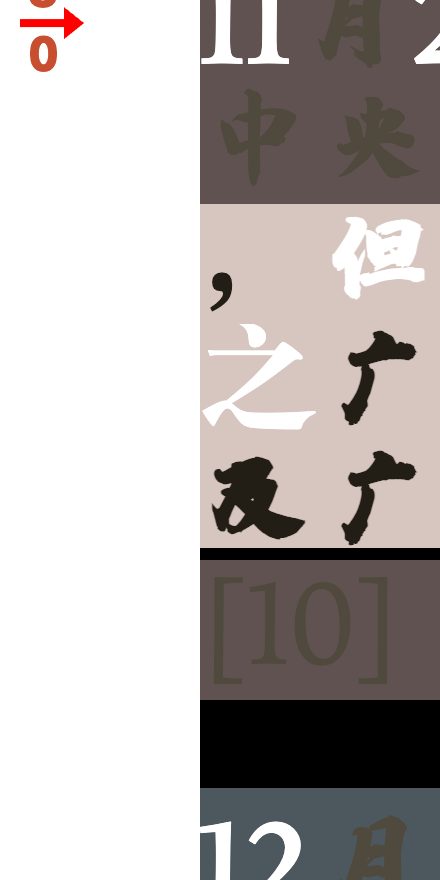
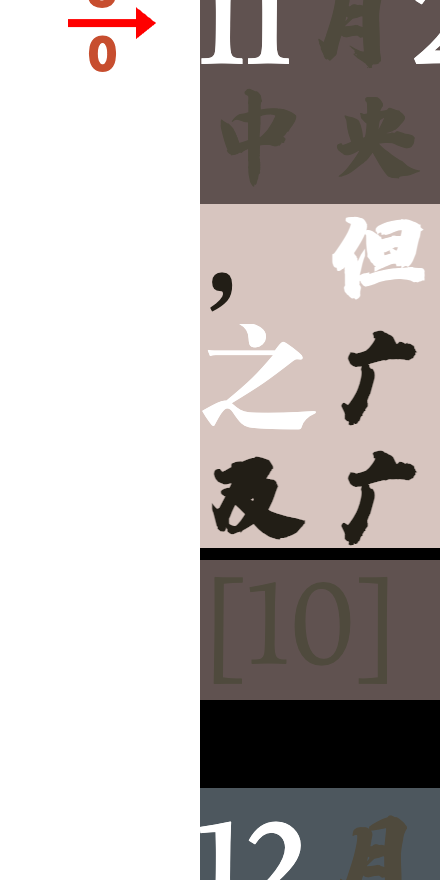
合理优化三列的宽度 现在第一列太窄 右边还有空白浪费 合理优化 三列平分这些空间
左缘白轴上的三列改为平分整条白轴：章节刻度 5px、进度数字 11px、关键词 12px 各占三分之一
（宽 = 正文行盒起点 28px + 行首留白，随字号自适应），第一列不再挤成 5px，
关键词列右缘从旧 28px 边界直推到首字左缘，白轴上不再有闲置空白；章节轨道白底直接引用 --白轴总宽。
红色指针三角改固定 5px（不再随列宽涨到 18px）；悬停临时关键词列让到白轴右缘之外 6px。
tmp/verify-行尾空隙.mjs 增加三列平分断言，新增 tmp/看-三列平分.mjs（有章节的书 + 关键词实跑：
0-16.5 / 16.5-33.1 / 33.1-49.6，与首字左缘 49.59 精确吻合），headless Chrome 实测通过、profile 已清理。

Changed region(s): [[0.0295, 0.0, 0.3545, 0.092]]

diff --git a/styles.css b/styles.css
@@ -101,17 +101,18 @@
      正文以最后一个字收尾、紧贴视口右缘，行首标记 ◀ 也一并有了容身处。 */
   --末处标记留白比例: 0.42;
   --行首标记留白: calc(var(--正文字号) * var(--末处标记留白比例));
-  /* 页面左缘一叠竖列：章节刻度贴屏幕左缘，再往右才是进度数字与选中关键词——
-     中间隔着数字列，免得灰色章节刻度与关键词刻度贴在一起分不清。
-     悬停时临时关键词列再往右让出一格。右侧没有轨道，正文直接铺到视口右缘。
-     白轴右缘不止三列之和：行首留白（折行竖条 + 末处标记格）也划给白轴，
-     正文首字紧贴白轴右缘，深色纸面上行首不再露出一条黑边。 */
-  --章节刻度宽度: 5px;
-  --百分比宽度: 11px;
-  --关键词宽度: 12px;
-  --章节轨道宽度: calc(
-    var(--章节刻度宽度) + var(--百分比宽度) + var(--关键词宽度)
+  /* 页面左缘白轴：章节刻度、进度数字、关键词刻度三列平分整条白轴。
+     白轴总宽 = 正文行盒起点（原三列 5+11+12 之和）+ 行首留白（折行竖条 + 末处标记格，
+     这段已划给白轴）。第一列不再挤成 5px，数字列与关键词列一直摊到首字左缘，
+     白轴上没有闲置空白；首字紧贴白轴右缘，深色纸面上行首不露黑边。
+     悬停时临时关键词列让到白轴右缘之外、压住正文左缘。右侧没有轨道，正文铺到视口右缘。 */
+  --章节轨道宽度: calc(5px + 11px + 12px);
+  --白轴总宽: calc(
+    var(--章节轨道宽度) + var(--正文左留白) + var(--行首标记留白)
   );
+  --章节刻度宽度: calc(var(--白轴总宽) / 3);
+  --百分比宽度: var(--章节刻度宽度);
+  --关键词宽度: var(--章节刻度宽度);
   /* 动画时长：JS（js/跳转动画.js）读取同一变量同步兜底计时器，改这里即两处同时生效 */
   --跳转迸发时长: 680ms;
   --衔接线播放时长: 1200ms;
@@ -196,9 +197,7 @@ body.关键词手势中 .滚动容器 {
   top: 0;
   left: 0;
   z-index: 6;
-  width: calc(
-    var(--章节轨道宽度) + var(--正文左留白) + var(--行首标记留白)
-  );
+  width: var(--白轴总宽);
   height: 100%;
   overflow: hidden;
   background: #fff;
@@ -226,11 +225,11 @@ body.关键词手势中 .滚动容器 {
 }
 
 /* canvas 是替换元素，必须显式给高，top/bottom 不会把它拉满。
-   轨道白底吞下了行首留白，right 内缩同一段作抵消，关键词刻度仍贴在进度数字列右侧 */
+   三列平分白轴后关键词列就是右起三分之一，right:0 贴到白轴右缘（即首字左缘） */
 .关键词指示器 {
   position: absolute;
   top: 0;
-  right: calc(var(--正文左留白) + var(--行首标记留白));
+  right: 0;
   display: block;
   width: var(--关键词宽度);
   height: 100%;
@@ -241,10 +240,11 @@ body.关键词手势中 .滚动容器 {
   display: none;
 }
 
-/* 临时（悬停）关键词列排在第三格，只在悬停那一刻出现，压住正文左缘 */
+/* 临时（悬停）关键词列只在悬停那一刻出现：让到白轴右缘之外 6px，
+   压住正文左缘（三列已平分整条白轴，轴上再无空位） */
 .关键词指示器.悬停关键词指示器 {
   position: fixed;
-  left: calc(var(--章节轨道宽度) + 6px);
+  left: calc(var(--白轴总宽) + 6px);
   right: auto;
   z-index: 6;
   width: var(--关键词宽度);
@@ -307,7 +307,8 @@ body.关键词手势中 .滚动容器 {
   height: 0;
   border-top: 4px solid transparent;
   border-bottom: 4px solid transparent;
-  border-left: var(--章节刻度宽度) solid #ff0000;
+  /* 三角固定 5px：三列平分白轴后列宽随字号涨到 ~18px，三角不能再跟列宽走 */
+  border-left: 5px solid #ff0000;
   content: '';
   transform: translateY(-50%);
 }
